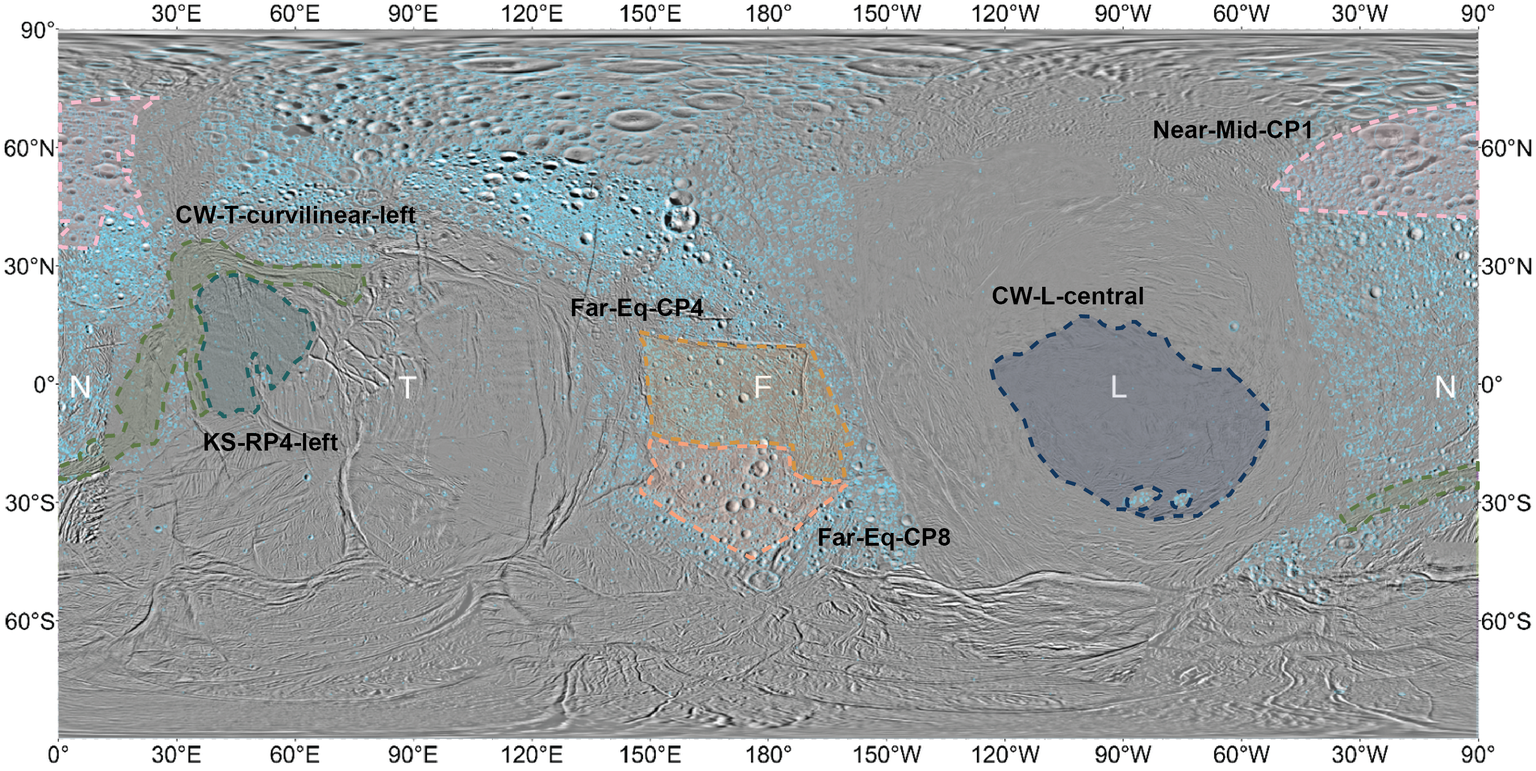
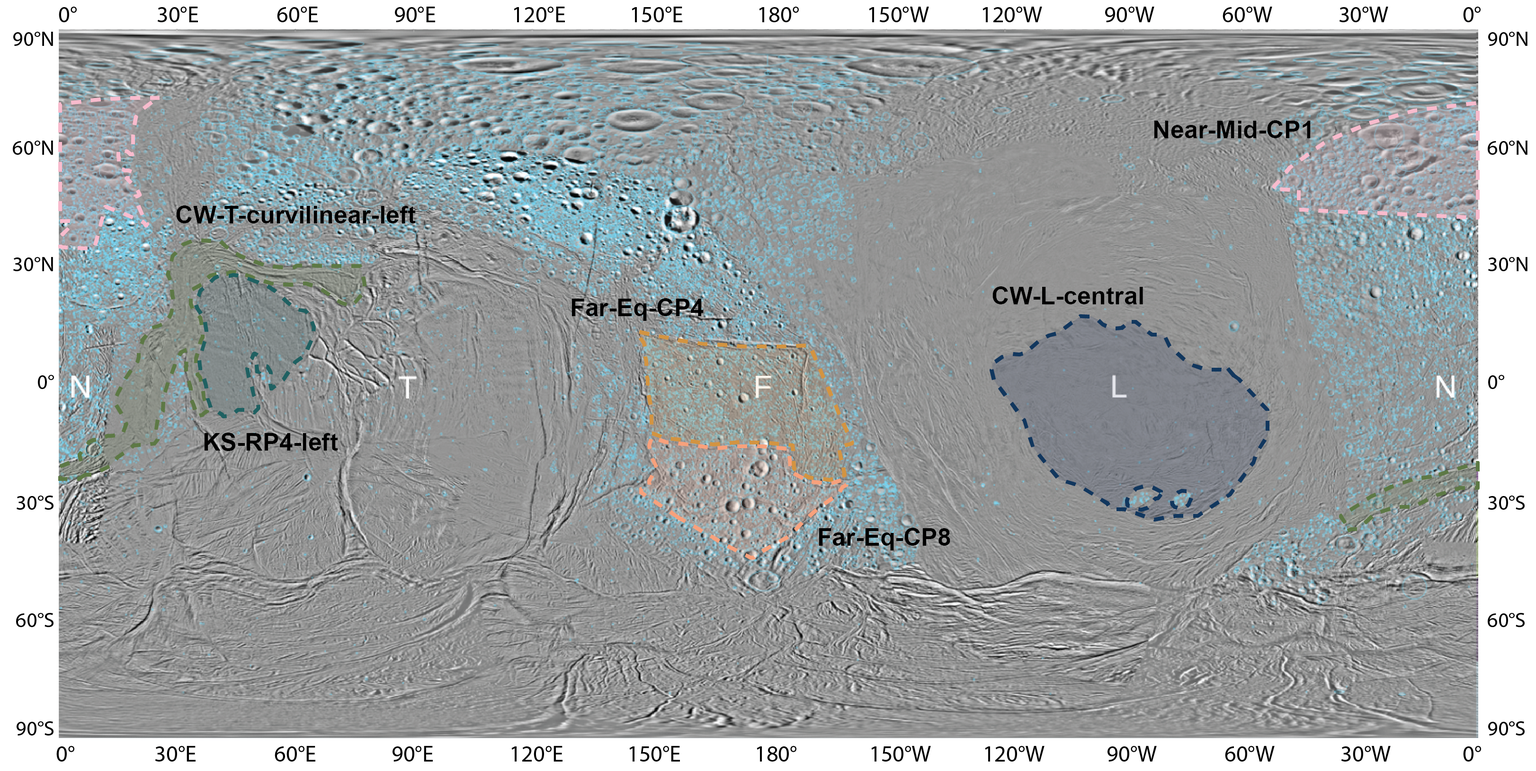
Edited Fig3,4,5 mapping

diff --git a/enceladus_crater.tex b/enceladus_crater.tex
@@ -320,8 +320,8 @@ Thus, variations in imaging conditions inherently produce differences in observe
 
 \begin{figure}[ht!]
     \centering
-    \includegraphics[width=1.0\textwidth]{fig/fig_division.png}
-    \caption{Division of units on Enceladus. \textbf{(A)} in equirectangular projection from  60°S to  60°N, and \textbf{(B)} and \textbf{(C)}  in polar stereographic from pole to 30° latitude in the north and south poles, respectively. Due to space constraints, not all units are labelled with full names. The prefix “RP” for ridged plains from \citet{Kirchoff2009} is omitted. Colour variations (red and yellow) distinguish between “Mid” (for mid-latitude) and “Eq” (for equator) without repeated labelling. Units in the north pole defined in this work are labelled in orange. Units referencing \citet{Kirchoff2009} are in blue, while those referencing \citet{CrowWillard2015} are in white. \emi (TODO: (1) grid need to be more obvious, (2) right-most 90-deg in panel A should be 0-deg, and the 90S and 90N (altitudes) should locate along the left and right side, instead of at the top and bottom with the longitude axes) \normalcolor }
+    \includegraphics[width=1.0\textwidth]{fig/figS1a.png}
+    \caption{Division of units on Enceladus. \textbf{(A)} in equirectangular projection from  60°S to  60°N, and \textbf{(B)} and \textbf{(C)}  in polar stereographic from pole to 30° latitude in the north and south poles, respectively. Due to space constraints, not all units are labelled with full names. The prefix “RP” for ridged plains from \citet{Kirchoff2009} is omitted. Colour variations (red and yellow) distinguish between “Mid” (for mid-latitude) and “Eq” (for equator) without repeated labelling. Units in the north pole defined in this work are labelled in orange. Units referencing \citet{Kirchoff2009} are in blue, while those referencing \citet{CrowWillard2015} are in white.}
     \label{fig:division}
 \end{figure}
 
@@ -420,11 +420,11 @@ To address this, we analyzed the global crater database in conjunction with surf
 
 \begin{figure}[ht!]
     \centering
-    \includegraphics[width=0.8\textwidth]{fig/fig1a.png}
+    \includegraphics[width=0.8\textwidth]{fig/fig2a_solid_semitransparent.png}
     \includegraphics[width=0.3\textwidth]{fig/fig1b.png}
     \includegraphics[width=0.3\textwidth]{fig/fig1_arrow.png}
     \raisebox{2.4mm}{\includegraphics[width=0.3\textwidth]{fig/fig1c_with_model.png}}
-    \caption{Construction of the crater production function (CPF). \emi (TODO: (1) Add letter labels on the panel. (2) right-most 90-deg in panel A should be 0-deg, and the 90S and 90N (altitudes) should locate along the left and right side, instead of at the top and bottom with the longitude axe)\normalcolor.
+    \caption{Construction of the crater production function (CPF).
         \textbf{(A)} Representative units overlaid on global mosaic images of Enceladus. White names denote units referenced from \citet{Kirchoff2009} and \citet{CrowWillard2015}, while black names denote units defined in this study.
         \textbf{(B)} Crater size-frequency measurements for each unit with logarithmic binning at 0.05 intervals. Transitioning colours (navy to pink) indicate increasing crater density and larger typical diameters. The error bars represent Poisson errors.
         \textbf{(C)} Visualisation of the upscaling and alignment of the crater measurements.
@@ -522,7 +522,7 @@ After normalization, the standardized crater size–frequency measurements from 
     \includegraphics[width=0.5\linewidth]{fig/compare_fig4_icarus.png}
     \caption{Demonstration of different crater populations across six units.
         \textbf{(A)} Cyan elliptical outlines highlight the uneven distribution of craters across Enceladus. Thin dashed lines bounding the semi-transparent areas mark the six distinctive units, each labelled with its name and best-fitted crater retention ages. Capital letters along the equator (N, T, F, L) represent the Near-side, Trailing, Far-side, and Leading hemispheres, aiding in unit location reference.
-        \textbf{(B)} Raw and unbinned crater size-frequency measurements in cumulative distribution for the six units, with colours matching those in (A). Error bars represent Poisson errors. Differences in slope reflect variations in location and resurfacing degree. The six units were chosen to minimise partially resurfacing effects that obscure slopes. \emi (TODO: Add the CPF, as reference, and clarify it's vertically scaled to the global average crater density, (2) same correction on 90-deg for as the previous two global figure)\normalcolor}
+        \textbf{(B)} Raw and unbinned crater size-frequency measurements in cumulative distribution for the six units, with colours matching those in (A). Error bars represent Poisson errors. Differences in slope reflect variations in location and resurfacing degree. The six units were chosen to minimise partially resurfacing effects that obscure slopes. \emi (TODO: Add the CPF, as reference, and clarify it's vertically scaled to the global average crater density.\normalcolor}
     \label{fig:crater}
 \end{figure}
 
@@ -762,7 +762,7 @@ The right portion of the ridged plain-4, as defined by \citet{Kirchoff2009}, occ
 KS-RP4-right is distinguished by tightly packed, narrow (0.6–2 km wide), north–south trending ridges and troughs that create a laterally continuous, morphologically uniform background, suggesting a single resurfacing episode. In some areas, notably near 17$^\circ$N, groups of sigmoidal features arranged in en echelon patterns indicate localised shear and tectonic deformation associated with the most recent resurfacing. In contrast, the adjacent KS-RP5 unit exhibits wider (~2 km), more widely spaced ridges and troughs with variable orientations, indicating a different geological history, thus warrant to be separated.
 
 KS-RP4-right also contains two very narrow, deep troughs that cut across all ridges and lineated bands, but their limited width means they have minimal impact on the overall crater population. One trough follows the eastern boundary, while the other extends over 300 km (from 11◦ N, 119◦ E to 45◦ S, 110◦ E), intersecting and partially removing the rim of a crater at 6°S, 123°E. The crater size–frequency distribution in KS-RP4-right is smooth and consistent, supporting its treatment as a single surface population. While craters larger than 2.5 km may be reliable, the presence of wider troughs in KS-RP5, voering nealry one-third of the unit, complicates identification of larger craters in that region. Therefore, for KS-RP4-right, we focus on craters in the 0.9–2.5 km diameter range, which are well preserved and unaffected by local tectonic modification. This ensures that the selected crater counts provide a robust and representative basis for modeling the CPF.
-%TODO: change CW-T-straitedr-right in the figures and captions
+%TODO: change CW-T-straited-right in the figures and captions
 
 \subsection{Far-side equatorial cratered plain 4 (Far-Eq-CP4)}
 \begin{figure}[H]
